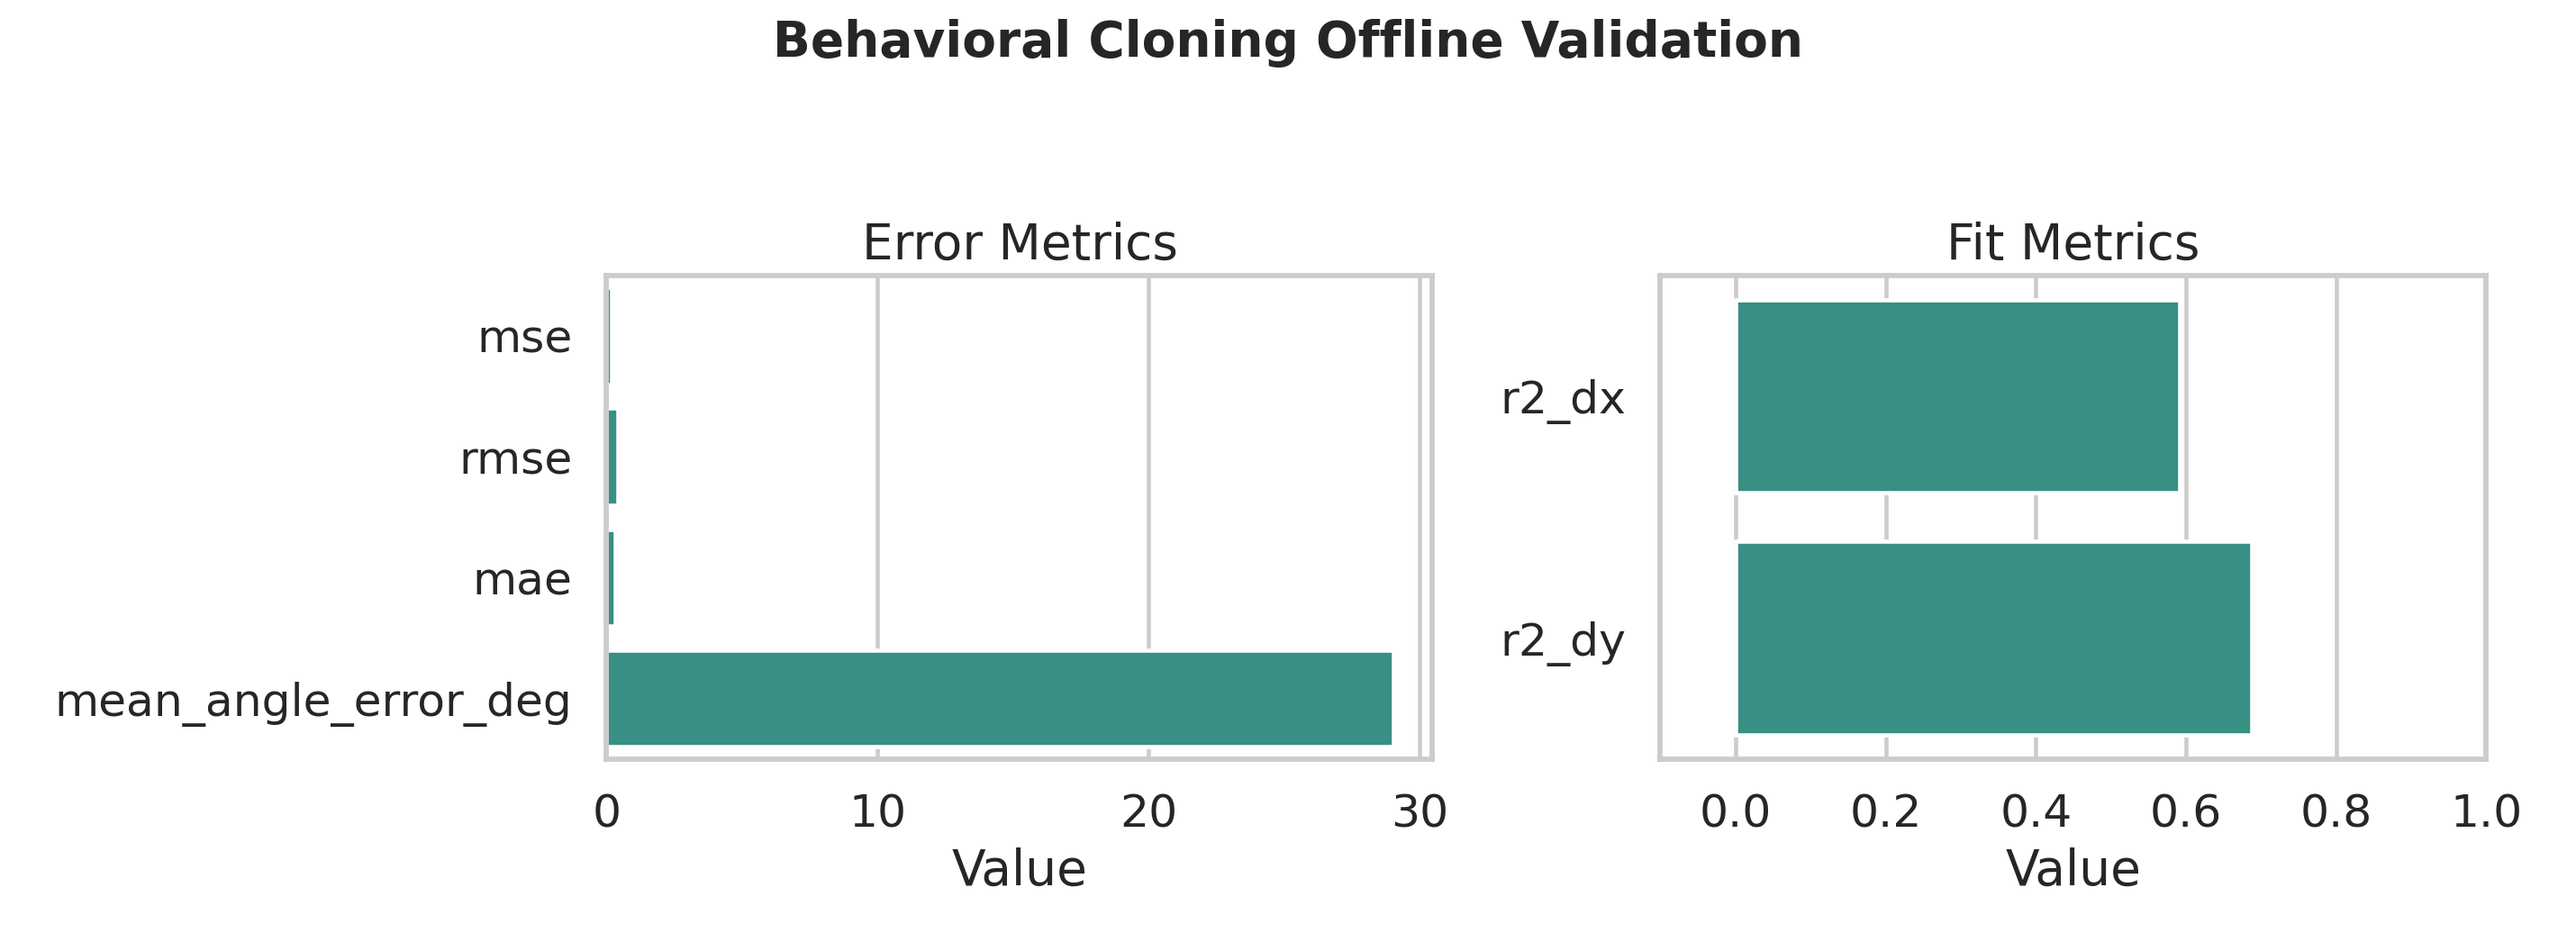
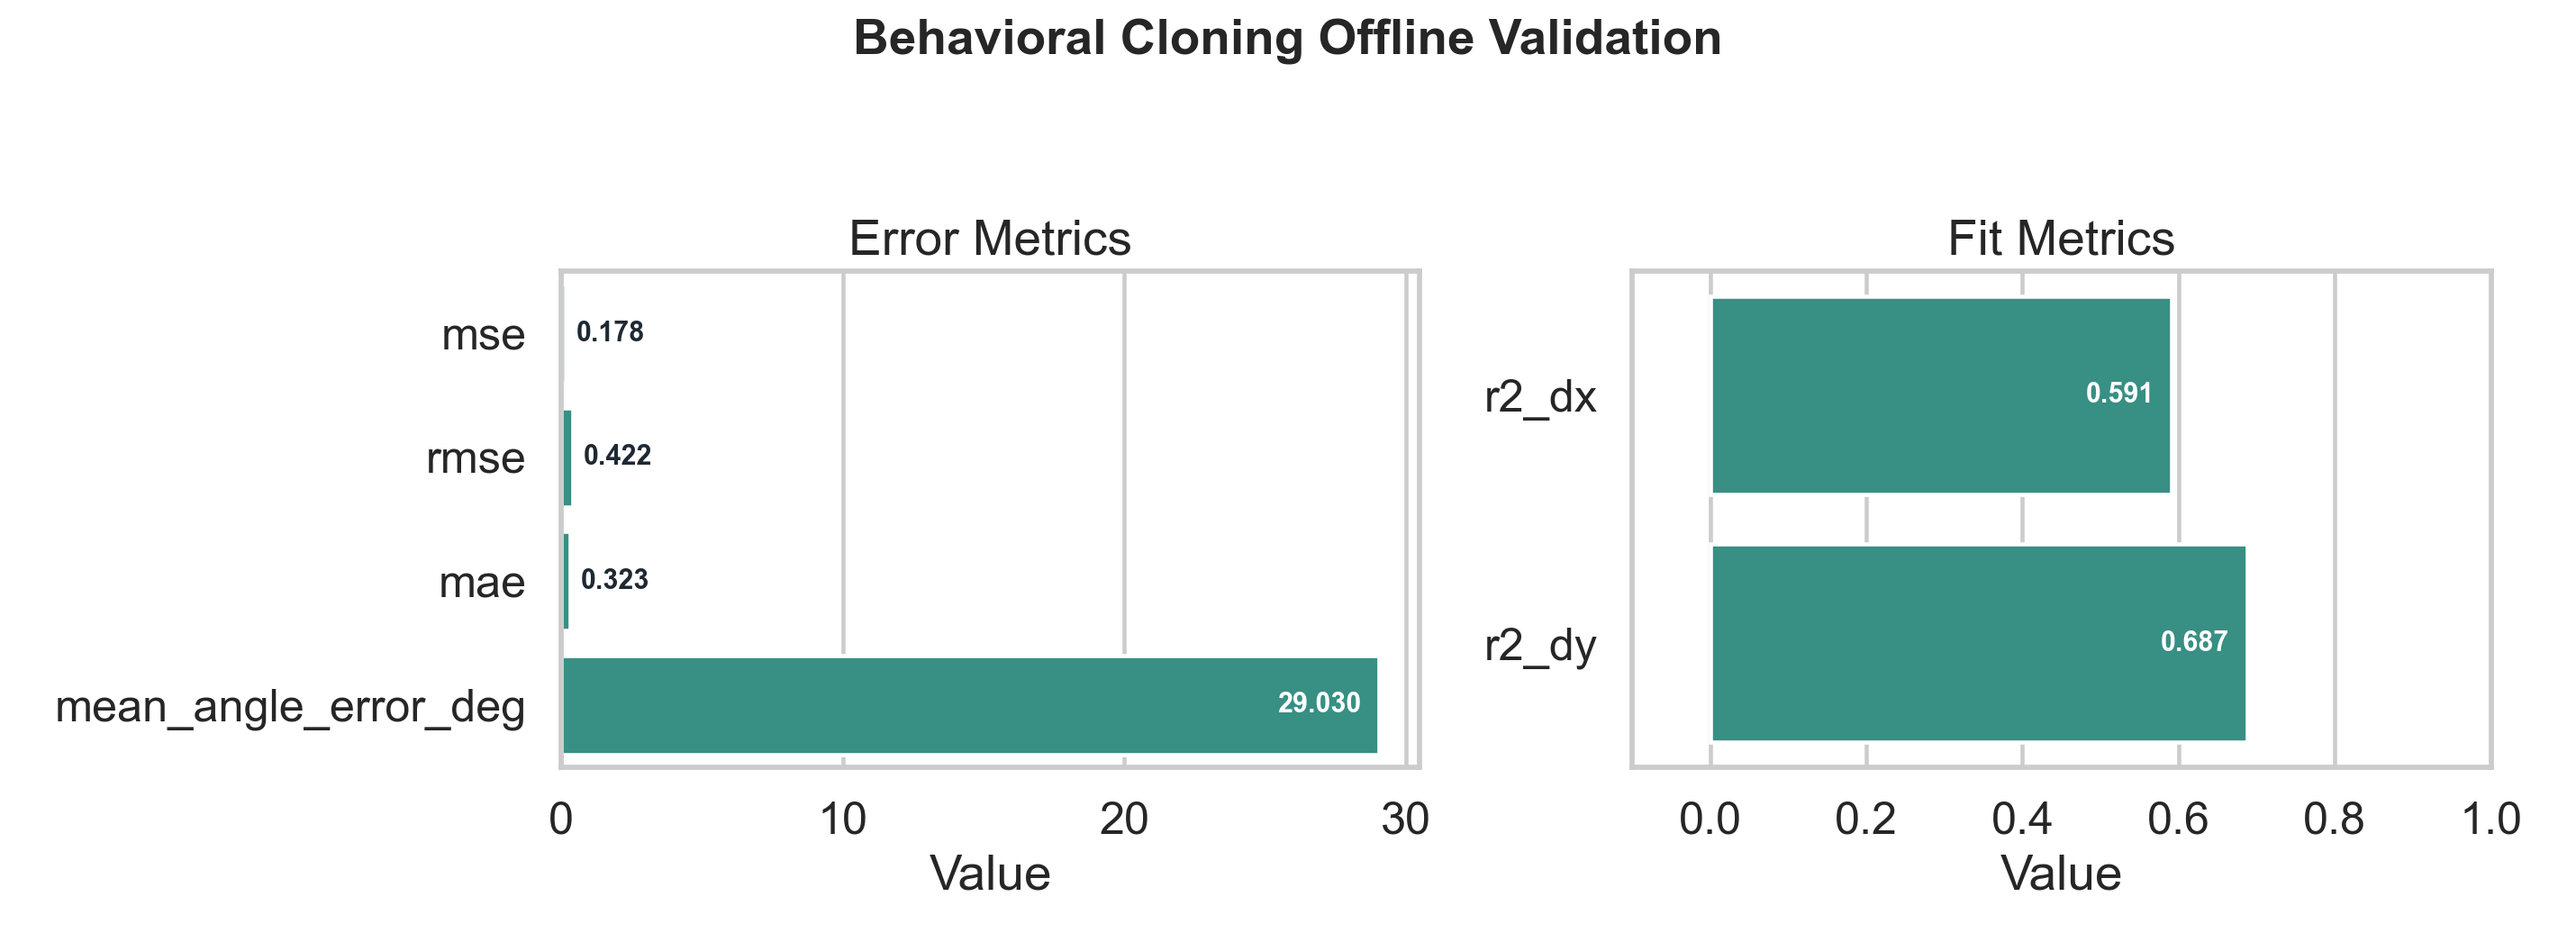
Graph UI fixes

diff --git a/scripts/analyze_ds_results.py b/scripts/analyze_ds_results.py
@@ -420,6 +420,7 @@ def _plot_bc_metrics(metrics: pd.Series, output_path: Path) -> None:
         axes[0].set_title("Error Metrics")
         axes[0].set_xlabel("Value")
         axes[0].set_ylabel("")
+        _annotate_value_bars(axes[0], formatter="{:.3f}", inside_threshold=1.0)
     else:
         axes[0].axis("off")
 
@@ -435,12 +436,53 @@ def _plot_bc_metrics(metrics: pd.Series, output_path: Path) -> None:
         axes[1].set_title("Fit Metrics")
         axes[1].set_xlabel("Value")
         axes[1].set_ylabel("")
+        _annotate_value_bars(axes[1], formatter="{:.3f}", inside_threshold=0.25)
     else:
         axes[1].axis("off")
 
     plt.tight_layout(rect=(0, 0, 1, 0.93))
     plt.savefig(output_path, dpi=220)
     plt.close()
+
+
+def _annotate_value_bars(
+    ax: plt.Axes,
+    *,
+    formatter: str = "{:.2f}",
+    inside_threshold: float = 0.2,
+) -> None:
+    x_min, x_max = ax.get_xlim()
+    span = max(x_max - x_min, 1e-8)
+    outside_offset = span * 0.012
+    inside_offset = span * 0.02
+
+    for patch in ax.patches:
+        width = float(patch.get_width())
+        ypos = patch.get_y() + patch.get_height() / 2.0
+        label = formatter.format(width)
+
+        if width >= inside_threshold:
+            ax.text(
+                width - inside_offset,
+                ypos,
+                label,
+                va="center",
+                ha="right",
+                fontsize=10,
+                fontweight="bold",
+                color="white",
+            )
+        else:
+            ax.text(
+                width + outside_offset,
+                ypos,
+                label,
+                va="center",
+                ha="left",
+                fontsize=10,
+                fontweight="bold",
+                color="#1f2933",
+            )
 
 
 def _barh_with_labels(
